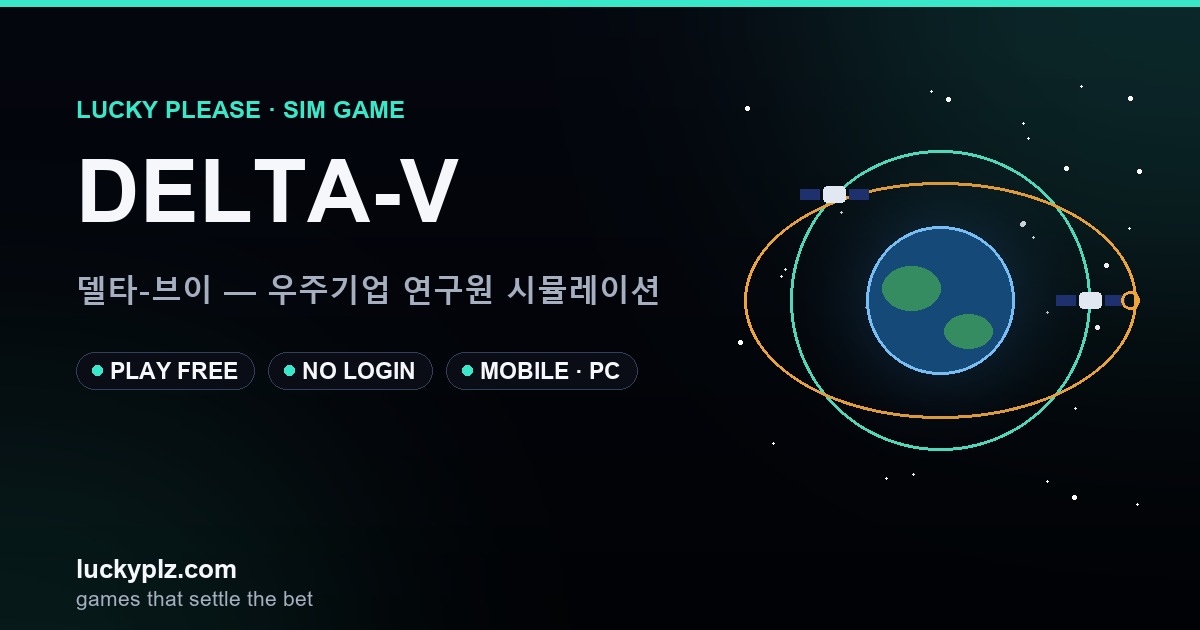
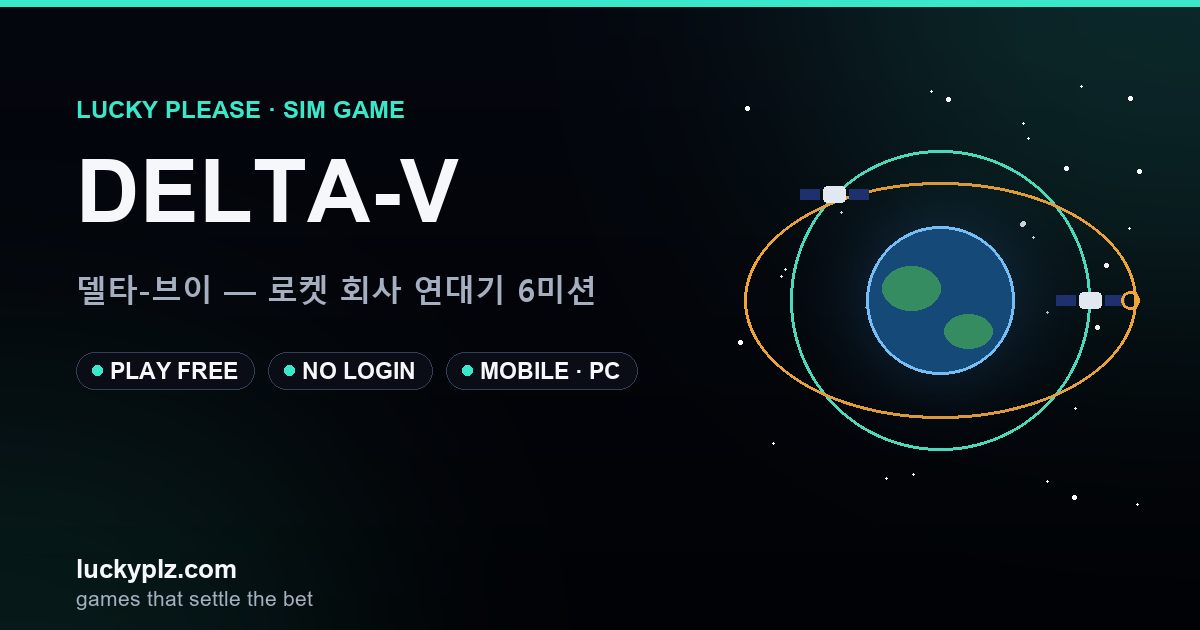
fix(orbit): 게임 목록·아케이드·OG 의 델타-브이 설명을 현재 게임(6미션 연대기)으로

Changed region(s): [[0.2158, 0.4222, 0.555, 0.4825]]

diff --git a/public/arcade/index.html b/public/arcade/index.html
@@ -224,7 +224,7 @@
   <div class="grid">
     <a class="tile" href="/games/lotto/" style="--tile-rgb:255,209,102"><span class="tile-sheen"></span><span class="ico"><img class="toy" src="/assets/tiles/toy-lotto.webp" alt="" width="560" height="560"></span><span class="nm" data-i18n="n_lotto">Lotto Draw</span><span class="ds" data-i18n="d_lotto">Lucky numbers</span></a>
     <a class="tile" href="/games/lucky-merge/" style="--tile-rgb:192,132,252"><span class="tile-sheen"></span><span class="ico"><img class="toy" src="/assets/tiles/toy-lucky-merge.webp" alt="" width="560" height="560"></span><span class="nm" data-i18n="n_merge">Planet Merge</span><span class="ds" data-i18n="d_merge">Meteor to black hole</span></a>
-    <a class="tile" href="/games/orbit/" style="--tile-rgb:56,232,200"><span class="tile-sheen"></span><span class="ico"><img class="toy" src="/assets/tiles/toy-orbit.webp" alt="" width="560" height="560"></span><span class="nm" data-i18n="n_orbit">Delta-V</span><span class="ds" data-i18n="d_orbit">Be the engineer</span></a>
+    <a class="tile" href="/games/orbit/" style="--tile-rgb:56,232,200"><span class="tile-sheen"></span><span class="ico"><img class="toy" src="/assets/tiles/toy-orbit.webp" alt="" width="560" height="560"></span><span class="nm" data-i18n="n_orbit">Delta-V</span><span class="ds" data-i18n="d_orbit">Fly 6 rocket missions</span></a>
     <a class="tile" href="/games/dodge/" style="--tile-rgb:34,211,238"><span class="tile-sheen"></span><span class="ico"><img class="toy" src="/assets/tiles/toy-dodge.webp" alt="" width="560" height="560"></span><span class="nm" data-i18n="n_dodge">Space-Z</span><span class="ds" data-i18n="d_dodge">Survive the belt</span></a>
     <a class="tile" href="/games/tetris/" style="--tile-rgb:96,165,250"><span class="tile-sheen"></span><span class="ico"><img class="toy" src="/assets/tiles/toy-tetris.webp" alt="" width="560" height="560"></span><span class="nm" data-i18n="n_block">Tetromino Stack</span><span class="ds" data-i18n="d_block">Stack, clear, repeat</span></a>
     <a class="tile" href="/games/starship-lander/" style="--tile-rgb:167,139,250"><span class="tile-sheen"></span><span class="ico"><img class="toy" src="/assets/tiles/toy-starship-lander.webp" alt="" width="560" height="560"></span><span class="nm" data-i18n="n_lander">Starship Lander</span><span class="ds" data-i18n="d_lander">Land it soft</span></a>
@@ -375,7 +375,7 @@ d.style.cssText='width:'+z+'px;height:'+z+'px;top:'+Math.random()*100+'%;left:'+
    보는 것은 영어여야 한다. 전환은 사용자 화면에서만 일어난다.
    SEO 투자 5개 언어만 두고 나머지 11개 UI 언어는 영어 원문으로 남는다. */
 (function () {
-    var T = {"ko": {"navHome": "← 럭키플리즈","navAll": "전체 게임","h1": "레트로 아케이드","lead": "열자마자 되는 작은 게임 13종. 줄 설 때, 엘리베이터 안, 회의 5분 전에.","n_lotto": "로또 추첨","d_lotto": "행운 번호 뽑기","n_merge": "행성 키우기","d_merge": "운석에서 블랙홀까지","n_orbit": "델타-브이","d_orbit": "우주기업 연구원이 된다","n_dodge": "스페이스-Z","d_dodge": "소행성대 생존","n_block": "테트로미노 쌓기","d_block": "쌓고 지우고 반복","n_lander": "스타십 착륙","d_lander": "부드럽게 착륙","n_brick": "벽돌깨기","d_brick": "벽돌 다 부수기","n_snake": "스네이크","d_snake": "먹을수록 길어지는 뱀","n_dot": "닷 러너","d_dot": "유령 따돌리기","n_burger": "버거 셰프","d_burger": "순서대로 쌓기","n_quiz": "라이브 퀴즈","d_quiz": "다 같이 퀴즈","n_bubble": "버블 버스트","d_bubble": "색 맞춰 터뜨리기","n_gummy": "구미 체인","d_gummy": "젤리 연쇄로 1:1 공격","back": "← 랜덤 뽑기로 돌아가기","f1t": "이 게임들이 살아남은 이유","f1b": "<p>여기 있는 게임은 전부 1976~1990년 기계의 후손입니다. 그 기계들은 메모리가 몇 킬로바이트뿐이었고 스스로를 설명할 방법이 없었습니다. 그래서 게임은 4초 안에 규칙 전부를 전달하지 못하면 아무것도 벌지 못했습니다. 살아남은 것은 <b>보자마자 목표가 보이고 난이도는 전부 손끝에서 나오는</b> 작은 목록입니다.</p><p>이 성질은 그때보다 지금 더 값이 나갑니다. 엘리베이터에서 연 게임에게 주어진 시간은 10초쯤입니다. 아케이드 기계도 같은 제약을 받았습니다. 뒤로가기 버튼 대신 동전 투입구가 있었을 뿐입니다.</p>","f2t": "각 게임의 진짜 원리","f2b": "<ul><li><b>스네이크</b> — 칸 수가 짝수인 격자에는 항상 해밀턴 순환이 있습니다. 모든 칸을 한 번씩 지나는 경로죠. 그대로 따라가면 절대 죽지 않고 느려지기만 합니다. 실력은 <b>그 순환에서 얼마나 안전하게 지름길을 잘라내는가</b>입니다.</li><li><b>테트로미노 쌓기</b> — 7-백 방식은 일곱 모양을 전부 내보낸 뒤에 다시 섞습니다. 필요한 조각을 12개 넘게 기다릴 일이 없다는 뜻이라, 운 관리가 계획으로 바뀝니다.</li><li><b>벽돌깨기</b> — 이 장르의 조상이고, 워즈니악이 원본 회로를 짠 게임입니다. 진짜 실력은 <b>패들의 어디에 맞았는지로 반사각을 읽는 것</b>입니다.</li><li><b>닷 러너</b> — 추격자 넷이 각각 다른 표적 규칙을 씁니다. 협력하는 코드가 한 줄도 없는데 협공처럼 보이는 이유입니다.</li><li><b>스타십 착륙</b> — 최적 강하는 수어사이드 번입니다. 최대한 자유낙하하다 마지막 순간에 최대 추력. 연료도 여유도 가장 적고, 그래서 가장 무섭습니다.</li><li><b>행성 키우기</b> — 사실 패킹 문제입니다. 합칠 때마다 자리는 나지만 보관할 것이 커지므로, 반대로 움직이는 두 값을 계속 협상하게 됩니다.</li></ul>","f3t": "이름과 콘텐츠 고지","f3b": "<p>닷 러너와 테트로미노 쌓기는 고전 아케이드 형식에서 착안한 자체 구현입니다. 비슷한 소재의 상용 게임 권리자와 아무 관련이 없고 승인도 받지 않았으며, 중립적인 이름을 쓴 것은 의도적입니다.</p>","f4t": "점수와 계정","f4b": "<p>모든 게임은 계정 없이 플레이됩니다. 로그인하면 두 가지가 더해집니다 — 최고 기록이 브라우저 하나가 아니라 기기 전체에 남고, 세계·친구 랭킹에 이름이 올라갑니다. 잠긴 것은 없습니다. 로그아웃 상태에서도 게임 전체를 하고 랭킹 전체를 볼 수 있습니다.</p>"},"ja": {"navHome": "← ラッキープリーズ","navAll": "すべてのゲーム","h1": "レトロアーケード","lead": "開いた瞬間から遊べる小さなゲーム13本。行列で、エレベーターで、会議前の5分に。","n_lotto": "ロト抽選","d_lotto": "ラッキーナンバー","n_merge": "惑星マージ","d_merge": "隕石からブラックホールへ","n_orbit": "デルタV","d_orbit": "宇宙企業の研究員になる","n_dodge": "スペース-Z","d_dodge": "小惑星帯を生き抜く","n_block": "テトロミノ・スタック","d_block": "積んで消してまた積む","n_lander": "スターシップ着陸","d_lander": "そっと着陸","n_brick": "ブロック崩し","d_brick": "全部壊す","n_snake": "スネーク","d_snake": "食べて伸びて噛まない","n_dot": "ドットランナー","d_dot": "ゴーストを振り切る","n_burger": "バーガーシェフ","d_burger": "順番どおりに積む","n_quiz": "ライブクイズ","d_quiz": "みんなでクイズ","n_bubble": "バブルバースト","d_bubble": "3つそろえてパチン","n_gummy": "グミチェイン","d_gummy": "グミ連鎖で1対1バトル","back": "← ランダム抽選ツールに戻る","f1t": "なぜこの形式だけが生き残ったか","f1b": "<p>ここにあるゲームはすべて1976〜1990年の機械の子孫です。当時のメモリは数キロバイト、しかも自分を説明する手段がありませんでした。だからゲームは4秒でルール全部を伝えられなければ、何も稼げなかったのです。生き残ったのは<b>見た瞬間に目的が分かり、難しさがすべて操作から来る</b>小さなライブラリでした。</p><p>この性質は当時より今のほうが価値があります。エレベーターで開いたゲームに与えられる時間は10秒ほど。アーケード筐体も同じ制約の中にいました。戻るボタンの代わりにコイン投入口があっただけです。</p>","f2t": "それぞれの中身","f2b": "<ul><li><b>スネーク</b> — マス数が偶数の格子には必ずハミルトン閉路があります。全マスを一度ずつ通る経路です。それをなぞれば絶対に死なず、ただ遅くなるだけ。腕の見せどころは<b>その閉路からどれだけ安全に近道を削るか</b>です。</li><li><b>テトロミノ・スタック</b> — 7バッグ方式は7種類を出し切ってから引き直します。欲しいピースを12個以上待つことがないので、運の管理が計画に変わります。</li><li><b>ブロック崩し</b> — このジャンルの祖先で、ウォズニアックが原型の回路を組んだ作品。本当の技術は<b>パドルのどこに当たったかで反射角を読むこと</b>です。</li><li><b>ドットランナー</b> — 4体の追跡者はそれぞれ違う狙い方をします。連携するコードが一行もないのに挟み撃ちに見えるのはそのためです。</li><li><b>スターシップ着陸</b> — 最適な降下はスーサイドバーン。ぎりぎりまで自由落下し、最後の瞬間に全推力。燃料も余裕も最小で、だからいちばん怖い。</li><li><b>惑星マージ</b> — 実は詰め込み問題です。合体するたび場所は空きますが、保管するものは大きくなる。逆向きに動く二つの量をずっと交渉することになります。</li></ul>","f3t": "名称と内容についてのお知らせ","f3b": "<p>ドットランナーとテトロミノ・スタックは、古典的なアーケード形式に着想を得た独自実装です。似た題材の商用ゲームの権利者とは無関係で、承認も受けていません。中立的な名称は意図的なものです。</p>","f4t": "スコアとアカウント","f4b": "<p>すべてのゲームはアカウントなしで遊べます。ログインで増えるのは二つ — ベスト記録がブラウザ1つではなく端末をまたいで残ること、そして世界・フレンドのランキングに名前が載ることです。制限はありません。ログアウトのままでもゲーム全体を遊び、ランキング全体を見られます。</p>"},"es": {"navHome": "← LUCKY PLEASE","navAll": "TODOS LOS JUEGOS","h1": "Arcade Retro","lead": "Trece juegos pequeños que se abren al instante y no te piden nada. Para la cola, el ascensor, los cinco minutos antes de una reunión.","n_lotto": "Lotería","d_lotto": "Números de la suerte","n_merge": "Planet Merge","d_merge": "De meteorito a agujero negro","n_orbit": "Delta-V","d_orbit": "Sé el ingeniero","n_dodge": "Space-Z","d_dodge": "Sobrevive al cinturón","n_block": "Tetrominós","d_block": "Apila, limpia, repite","n_lander": "Starship Lander","d_lander": "Aterriza suave","n_brick": "Rompe Ladrillos","d_brick": "Rómpelos todos","n_snake": "Snake","d_snake": "Come, crece, no te muerdas","n_dot": "Dot Runner","d_dot": "Escapa de los fantasmas","n_burger": "Chef Burger","d_burger": "Apila en orden","n_quiz": "Quiz en Vivo","d_quiz": "Trivia en grupo","n_bubble": "Revienta Burbujas","d_bubble": "Junta 3 y revienta","n_gummy": "Gummy Chain","d_gummy": "Encadena gominolas y ataca","back": "← Volver a los sorteos aleatorios","f1t": "Por qué estos juegos sobrevivieron a todo lo demás","f1b": "<p>Todos los de aquí descienden de una máquina construida entre 1976 y 1990. Aquellas tenían unos pocos kilobytes de memoria y ninguna forma de explicarse, así que un juego o transmitía sus reglas enteras en cuatro segundos o no ganaba nada. Lo que sobrevivió es una biblioteca pequeña donde <b>el objetivo se ve de un vistazo y la dificultad está toda en la ejecución</b>.</p><p>Esa propiedad vale más ahora que entonces. Un juego abierto en un ascensor tiene unos diez segundos para justificarse. La máquina recreativa tenía la misma restricción, solo que con una ranura de monedas en lugar de un botón de volver.</p>","f2t": "En qué se basa cada uno","f2b": "<ul><li><b>Snake</b> — una cuadrícula con un número par de celdas siempre contiene un ciclo hamiltoniano: un camino que visita cada casilla una vez. Si lo sigues nunca mueres, solo te vuelves más lento. La habilidad está en <b>recortar atajos sin quedar atrapado</b>.</li><li><b>Tetromino Stack</b> — el generador de siete bolsas reparte las siete formas antes de volver a barajar, así que nunca esperas más de doce piezas por la que necesitas. La gestión de la suerte se convierte en planificación.</li><li><b>Rompe Ladrillos</b> — el ancestro del género, y el juego para el que Wozniak montó el circuito original. La habilidad real es <b>leer el ángulo de salida</b>, que depende de dónde golpea la bola la paleta.</li><li><b>Dot Runner</b> — los cuatro perseguidores usan reglas de objetivo distintas. Por eso parecen coordinarse sin que exista una sola línea de código que los coordine.</li><li><b>Starship Lander</b> — el descenso óptimo es la quemadura suicida: caer todo lo posible y aplicar empuje máximo en el último instante. Menos combustible, menos margen, más terror.</li><li><b>Planet Merge</b> — un problema de empaquetado. Cada fusión libera espacio pero agranda lo que guardas, así que negocias dos cantidades que van en direcciones opuestas.</li></ul>","f3t": "Nombres y avisos de contenido","f3b": "<p>Dot Runner y Tetromino Stack son implementaciones propias inspiradas en formatos clásicos de recreativa. No están afiliadas ni respaldadas por los titulares de derechos de ningún juego comercial de temática similar, y los nombres neutros son deliberados.</p>","f4t": "Puntuaciones y cuentas","f4b": "<p>Todos los juegos funcionan sin cuenta. Iniciar sesión añade dos cosas: tus mejores marcas persisten entre dispositivos en lugar de en un solo navegador, y apareces en las tablas mundial y de amigos. Nada está bloqueado: el juego completo se juega y la clasificación completa se lee sin sesión.</p>"},"pt": {"navHome": "← LUCKY PLEASE","navAll": "TODOS OS JOGOS","h1": "Arcade Retrô","lead": "Treze joguinhos que abrem na hora e não pedem nada. Para a fila, o elevador, os cinco minutos antes da reunião.","n_lotto": "Loteria","d_lotto": "Números da sorte","n_merge": "Planet Merge","d_merge": "De meteorito a buraco negro","n_orbit": "Delta-V","d_orbit": "Seja o engenheiro","n_dodge": "Space-Z","d_dodge": "Sobreviva ao cinturão","n_block": "Tetraminós","d_block": "Empilhe, limpe, repita","n_lander": "Starship Lander","d_lander": "Pouse suave","n_brick": "Quebra-Tijolos","d_brick": "Quebre todos","n_snake": "Snake","d_snake": "Coma, cresça, não se morda","n_dot": "Dot Runner","d_dot": "Fuja dos fantasmas","n_burger": "Chef Burger","d_burger": "Empilhe na ordem","n_quiz": "Quiz ao Vivo","d_quiz": "Quiz em grupo","n_bubble": "Estoura Bolhas","d_bubble": "Junte 3 e estoure","n_gummy": "Gummy Chain","d_gummy": "Encadeie balas e ataque","back": "← Voltar aos sorteios aleatórios","f1t": "Por que estes jogos sobreviveram a tudo","f1b": "<p>Todos aqui descendem de uma máquina construída entre 1976 e 1990. Aquelas tinham poucos kilobytes de memória e nenhuma forma de se explicar, então um jogo ou transmitia todas as regras em quatro segundos ou não ganhava nada. O que sobreviveu é uma biblioteca pequena em que <b>o objetivo se vê de imediato e a dificuldade está toda na execução</b>.</p><p>Essa propriedade vale mais hoje do que valia então. Um jogo aberto no elevador tem uns dez segundos para se justificar. A máquina de fliperama tinha a mesma restrição, só que com uma moedeira no lugar do botão de voltar.</p>","f2t": "No que cada um se baseia","f2b": "<ul><li><b>Snake</b> — uma grade com número par de células sempre contém um ciclo hamiltoniano: um caminho que passa por cada casa uma vez. Se você o segue, nunca morre, apenas fica mais lento. A habilidade está em <b>cortar atalhos sem se prender</b>.</li><li><b>Tetromino Stack</b> — o sorteio de sete sacos distribui as sete formas antes de embaralhar de novo, então você nunca espera mais de doze peças pela que precisa. Gerenciar sorte vira planejamento.</li><li><b>Quebra-Tijolos</b> — o ancestral do gênero, e o jogo para o qual Wozniak montou o circuito original. A habilidade real é <b>ler o ângulo de saída</b>, que depende de onde a bola bate na raquete.</li><li><b>Dot Runner</b> — os quatro perseguidores usam regras de mira diferentes. É por isso que parecem se coordenar sem nenhuma linha de código que os coordene.</li><li><b>Starship Lander</b> — a descida ótima é a queima suicida: cair o máximo possível e dar empuxo total no último instante. Menos combustível, menos margem, mais pavor.</li><li><b>Planet Merge</b> — um problema de empacotamento. Cada fusão libera espaço mas aumenta o que você guarda, então você negocia duas quantidades que andam em direções opostas.</li></ul>","f3t": "Nomes e avisos de conteúdo","f3b": "<p>Dot Runner e Tetromino Stack são implementações próprias inspiradas em formatos clássicos de fliperama. Não têm vínculo nem aval dos detentores de direitos de qualquer jogo comercial de tema parecido, e os nomes neutros são propositais.</p>","f4t": "Pontuações e contas","f4b": "<p>Todos os jogos rodam sem conta. Entrar acrescenta duas coisas: seus melhores resultados ficam salvos entre dispositivos em vez de num navegador só, e você aparece nos rankings mundial e de amigos. Nada é bloqueado — dá para jogar tudo e ler o ranking inteiro sem estar logado.</p>"}};
+    var T = {"ko": {"navHome": "← 럭키플리즈","navAll": "전체 게임","h1": "레트로 아케이드","lead": "열자마자 되는 작은 게임 13종. 줄 설 때, 엘리베이터 안, 회의 5분 전에.","n_lotto": "로또 추첨","d_lotto": "행운 번호 뽑기","n_merge": "행성 키우기","d_merge": "운석에서 블랙홀까지","n_orbit": "델타-브이","d_orbit": "로켓 미션 6개 직접 조종","n_dodge": "스페이스-Z","d_dodge": "소행성대 생존","n_block": "테트로미노 쌓기","d_block": "쌓고 지우고 반복","n_lander": "스타십 착륙","d_lander": "부드럽게 착륙","n_brick": "벽돌깨기","d_brick": "벽돌 다 부수기","n_snake": "스네이크","d_snake": "먹을수록 길어지는 뱀","n_dot": "닷 러너","d_dot": "유령 따돌리기","n_burger": "버거 셰프","d_burger": "순서대로 쌓기","n_quiz": "라이브 퀴즈","d_quiz": "다 같이 퀴즈","n_bubble": "버블 버스트","d_bubble": "색 맞춰 터뜨리기","n_gummy": "구미 체인","d_gummy": "젤리 연쇄로 1:1 공격","back": "← 랜덤 뽑기로 돌아가기","f1t": "이 게임들이 살아남은 이유","f1b": "<p>여기 있는 게임은 전부 1976~1990년 기계의 후손입니다. 그 기계들은 메모리가 몇 킬로바이트뿐이었고 스스로를 설명할 방법이 없었습니다. 그래서 게임은 4초 안에 규칙 전부를 전달하지 못하면 아무것도 벌지 못했습니다. 살아남은 것은 <b>보자마자 목표가 보이고 난이도는 전부 손끝에서 나오는</b> 작은 목록입니다.</p><p>이 성질은 그때보다 지금 더 값이 나갑니다. 엘리베이터에서 연 게임에게 주어진 시간은 10초쯤입니다. 아케이드 기계도 같은 제약을 받았습니다. 뒤로가기 버튼 대신 동전 투입구가 있었을 뿐입니다.</p>","f2t": "각 게임의 진짜 원리","f2b": "<ul><li><b>스네이크</b> — 칸 수가 짝수인 격자에는 항상 해밀턴 순환이 있습니다. 모든 칸을 한 번씩 지나는 경로죠. 그대로 따라가면 절대 죽지 않고 느려지기만 합니다. 실력은 <b>그 순환에서 얼마나 안전하게 지름길을 잘라내는가</b>입니다.</li><li><b>테트로미노 쌓기</b> — 7-백 방식은 일곱 모양을 전부 내보낸 뒤에 다시 섞습니다. 필요한 조각을 12개 넘게 기다릴 일이 없다는 뜻이라, 운 관리가 계획으로 바뀝니다.</li><li><b>벽돌깨기</b> — 이 장르의 조상이고, 워즈니악이 원본 회로를 짠 게임입니다. 진짜 실력은 <b>패들의 어디에 맞았는지로 반사각을 읽는 것</b>입니다.</li><li><b>닷 러너</b> — 추격자 넷이 각각 다른 표적 규칙을 씁니다. 협력하는 코드가 한 줄도 없는데 협공처럼 보이는 이유입니다.</li><li><b>스타십 착륙</b> — 최적 강하는 수어사이드 번입니다. 최대한 자유낙하하다 마지막 순간에 최대 추력. 연료도 여유도 가장 적고, 그래서 가장 무섭습니다.</li><li><b>행성 키우기</b> — 사실 패킹 문제입니다. 합칠 때마다 자리는 나지만 보관할 것이 커지므로, 반대로 움직이는 두 값을 계속 협상하게 됩니다.</li></ul>","f3t": "이름과 콘텐츠 고지","f3b": "<p>닷 러너와 테트로미노 쌓기는 고전 아케이드 형식에서 착안한 자체 구현입니다. 비슷한 소재의 상용 게임 권리자와 아무 관련이 없고 승인도 받지 않았으며, 중립적인 이름을 쓴 것은 의도적입니다.</p>","f4t": "점수와 계정","f4b": "<p>모든 게임은 계정 없이 플레이됩니다. 로그인하면 두 가지가 더해집니다 — 최고 기록이 브라우저 하나가 아니라 기기 전체에 남고, 세계·친구 랭킹에 이름이 올라갑니다. 잠긴 것은 없습니다. 로그아웃 상태에서도 게임 전체를 하고 랭킹 전체를 볼 수 있습니다.</p>"},"ja": {"navHome": "← ラッキープリーズ","navAll": "すべてのゲーム","h1": "レトロアーケード","lead": "開いた瞬間から遊べる小さなゲーム13本。行列で、エレベーターで、会議前の5分に。","n_lotto": "ロト抽選","d_lotto": "ラッキーナンバー","n_merge": "惑星マージ","d_merge": "隕石からブラックホールへ","n_orbit": "デルタV","d_orbit": "ロケットを自分で操縦","n_dodge": "スペース-Z","d_dodge": "小惑星帯を生き抜く","n_block": "テトロミノ・スタック","d_block": "積んで消してまた積む","n_lander": "スターシップ着陸","d_lander": "そっと着陸","n_brick": "ブロック崩し","d_brick": "全部壊す","n_snake": "スネーク","d_snake": "食べて伸びて噛まない","n_dot": "ドットランナー","d_dot": "ゴーストを振り切る","n_burger": "バーガーシェフ","d_burger": "順番どおりに積む","n_quiz": "ライブクイズ","d_quiz": "みんなでクイズ","n_bubble": "バブルバースト","d_bubble": "3つそろえてパチン","n_gummy": "グミチェイン","d_gummy": "グミ連鎖で1対1バトル","back": "← ランダム抽選ツールに戻る","f1t": "なぜこの形式だけが生き残ったか","f1b": "<p>ここにあるゲームはすべて1976〜1990年の機械の子孫です。当時のメモリは数キロバイト、しかも自分を説明する手段がありませんでした。だからゲームは4秒でルール全部を伝えられなければ、何も稼げなかったのです。生き残ったのは<b>見た瞬間に目的が分かり、難しさがすべて操作から来る</b>小さなライブラリでした。</p><p>この性質は当時より今のほうが価値があります。エレベーターで開いたゲームに与えられる時間は10秒ほど。アーケード筐体も同じ制約の中にいました。戻るボタンの代わりにコイン投入口があっただけです。</p>","f2t": "それぞれの中身","f2b": "<ul><li><b>スネーク</b> — マス数が偶数の格子には必ずハミルトン閉路があります。全マスを一度ずつ通る経路です。それをなぞれば絶対に死なず、ただ遅くなるだけ。腕の見せどころは<b>その閉路からどれだけ安全に近道を削るか</b>です。</li><li><b>テトロミノ・スタック</b> — 7バッグ方式は7種類を出し切ってから引き直します。欲しいピースを12個以上待つことがないので、運の管理が計画に変わります。</li><li><b>ブロック崩し</b> — このジャンルの祖先で、ウォズニアックが原型の回路を組んだ作品。本当の技術は<b>パドルのどこに当たったかで反射角を読むこと</b>です。</li><li><b>ドットランナー</b> — 4体の追跡者はそれぞれ違う狙い方をします。連携するコードが一行もないのに挟み撃ちに見えるのはそのためです。</li><li><b>スターシップ着陸</b> — 最適な降下はスーサイドバーン。ぎりぎりまで自由落下し、最後の瞬間に全推力。燃料も余裕も最小で、だからいちばん怖い。</li><li><b>惑星マージ</b> — 実は詰め込み問題です。合体するたび場所は空きますが、保管するものは大きくなる。逆向きに動く二つの量をずっと交渉することになります。</li></ul>","f3t": "名称と内容についてのお知らせ","f3b": "<p>ドットランナーとテトロミノ・スタックは、古典的なアーケード形式に着想を得た独自実装です。似た題材の商用ゲームの権利者とは無関係で、承認も受けていません。中立的な名称は意図的なものです。</p>","f4t": "スコアとアカウント","f4b": "<p>すべてのゲームはアカウントなしで遊べます。ログインで増えるのは二つ — ベスト記録がブラウザ1つではなく端末をまたいで残ること、そして世界・フレンドのランキングに名前が載ることです。制限はありません。ログアウトのままでもゲーム全体を遊び、ランキング全体を見られます。</p>"},"es": {"navHome": "← LUCKY PLEASE","navAll": "TODOS LOS JUEGOS","h1": "Arcade Retro","lead": "Trece juegos pequeños que se abren al instante y no te piden nada. Para la cola, el ascensor, los cinco minutos antes de una reunión.","n_lotto": "Lotería","d_lotto": "Números de la suerte","n_merge": "Planet Merge","d_merge": "De meteorito a agujero negro","n_orbit": "Delta-V","d_orbit": "Pilota 6 misiones de cohete","n_dodge": "Space-Z","d_dodge": "Sobrevive al cinturón","n_block": "Tetrominós","d_block": "Apila, limpia, repite","n_lander": "Starship Lander","d_lander": "Aterriza suave","n_brick": "Rompe Ladrillos","d_brick": "Rómpelos todos","n_snake": "Snake","d_snake": "Come, crece, no te muerdas","n_dot": "Dot Runner","d_dot": "Escapa de los fantasmas","n_burger": "Chef Burger","d_burger": "Apila en orden","n_quiz": "Quiz en Vivo","d_quiz": "Trivia en grupo","n_bubble": "Revienta Burbujas","d_bubble": "Junta 3 y revienta","n_gummy": "Gummy Chain","d_gummy": "Encadena gominolas y ataca","back": "← Volver a los sorteos aleatorios","f1t": "Por qué estos juegos sobrevivieron a todo lo demás","f1b": "<p>Todos los de aquí descienden de una máquina construida entre 1976 y 1990. Aquellas tenían unos pocos kilobytes de memoria y ninguna forma de explicarse, así que un juego o transmitía sus reglas enteras en cuatro segundos o no ganaba nada. Lo que sobrevivió es una biblioteca pequeña donde <b>el objetivo se ve de un vistazo y la dificultad está toda en la ejecución</b>.</p><p>Esa propiedad vale más ahora que entonces. Un juego abierto en un ascensor tiene unos diez segundos para justificarse. La máquina recreativa tenía la misma restricción, solo que con una ranura de monedas en lugar de un botón de volver.</p>","f2t": "En qué se basa cada uno","f2b": "<ul><li><b>Snake</b> — una cuadrícula con un número par de celdas siempre contiene un ciclo hamiltoniano: un camino que visita cada casilla una vez. Si lo sigues nunca mueres, solo te vuelves más lento. La habilidad está en <b>recortar atajos sin quedar atrapado</b>.</li><li><b>Tetromino Stack</b> — el generador de siete bolsas reparte las siete formas antes de volver a barajar, así que nunca esperas más de doce piezas por la que necesitas. La gestión de la suerte se convierte en planificación.</li><li><b>Rompe Ladrillos</b> — el ancestro del género, y el juego para el que Wozniak montó el circuito original. La habilidad real es <b>leer el ángulo de salida</b>, que depende de dónde golpea la bola la paleta.</li><li><b>Dot Runner</b> — los cuatro perseguidores usan reglas de objetivo distintas. Por eso parecen coordinarse sin que exista una sola línea de código que los coordine.</li><li><b>Starship Lander</b> — el descenso óptimo es la quemadura suicida: caer todo lo posible y aplicar empuje máximo en el último instante. Menos combustible, menos margen, más terror.</li><li><b>Planet Merge</b> — un problema de empaquetado. Cada fusión libera espacio pero agranda lo que guardas, así que negocias dos cantidades que van en direcciones opuestas.</li></ul>","f3t": "Nombres y avisos de contenido","f3b": "<p>Dot Runner y Tetromino Stack son implementaciones propias inspiradas en formatos clásicos de recreativa. No están afiliadas ni respaldadas por los titulares de derechos de ningún juego comercial de temática similar, y los nombres neutros son deliberados.</p>","f4t": "Puntuaciones y cuentas","f4b": "<p>Todos los juegos funcionan sin cuenta. Iniciar sesión añade dos cosas: tus mejores marcas persisten entre dispositivos en lugar de en un solo navegador, y apareces en las tablas mundial y de amigos. Nada está bloqueado: el juego completo se juega y la clasificación completa se lee sin sesión.</p>"},"pt": {"navHome": "← LUCKY PLEASE","navAll": "TODOS OS JOGOS","h1": "Arcade Retrô","lead": "Treze joguinhos que abrem na hora e não pedem nada. Para a fila, o elevador, os cinco minutos antes da reunião.","n_lotto": "Loteria","d_lotto": "Números da sorte","n_merge": "Planet Merge","d_merge": "De meteorito a buraco negro","n_orbit": "Delta-V","d_orbit": "Pilote 6 missões de foguete","n_dodge": "Space-Z","d_dodge": "Sobreviva ao cinturão","n_block": "Tetraminós","d_block": "Empilhe, limpe, repita","n_lander": "Starship Lander","d_lander": "Pouse suave","n_brick": "Quebra-Tijolos","d_brick": "Quebre todos","n_snake": "Snake","d_snake": "Coma, cresça, não se morda","n_dot": "Dot Runner","d_dot": "Fuja dos fantasmas","n_burger": "Chef Burger","d_burger": "Empilhe na ordem","n_quiz": "Quiz ao Vivo","d_quiz": "Quiz em grupo","n_bubble": "Estoura Bolhas","d_bubble": "Junte 3 e estoure","n_gummy": "Gummy Chain","d_gummy": "Encadeie balas e ataque","back": "← Voltar aos sorteios aleatórios","f1t": "Por que estes jogos sobreviveram a tudo","f1b": "<p>Todos aqui descendem de uma máquina construída entre 1976 e 1990. Aquelas tinham poucos kilobytes de memória e nenhuma forma de se explicar, então um jogo ou transmitia todas as regras em quatro segundos ou não ganhava nada. O que sobreviveu é uma biblioteca pequena em que <b>o objetivo se vê de imediato e a dificuldade está toda na execução</b>.</p><p>Essa propriedade vale mais hoje do que valia então. Um jogo aberto no elevador tem uns dez segundos para se justificar. A máquina de fliperama tinha a mesma restrição, só que com uma moedeira no lugar do botão de voltar.</p>","f2t": "No que cada um se baseia","f2b": "<ul><li><b>Snake</b> — uma grade com número par de células sempre contém um ciclo hamiltoniano: um caminho que passa por cada casa uma vez. Se você o segue, nunca morre, apenas fica mais lento. A habilidade está em <b>cortar atalhos sem se prender</b>.</li><li><b>Tetromino Stack</b> — o sorteio de sete sacos distribui as sete formas antes de embaralhar de novo, então você nunca espera mais de doze peças pela que precisa. Gerenciar sorte vira planejamento.</li><li><b>Quebra-Tijolos</b> — o ancestral do gênero, e o jogo para o qual Wozniak montou o circuito original. A habilidade real é <b>ler o ângulo de saída</b>, que depende de onde a bola bate na raquete.</li><li><b>Dot Runner</b> — os quatro perseguidores usam regras de mira diferentes. É por isso que parecem se coordenar sem nenhuma linha de código que os coordene.</li><li><b>Starship Lander</b> — a descida ótima é a queima suicida: cair o máximo possível e dar empuxo total no último instante. Menos combustível, menos margem, mais pavor.</li><li><b>Planet Merge</b> — um problema de empacotamento. Cada fusão libera espaço mas aumenta o que você guarda, então você negocia duas quantidades que andam em direções opostas.</li></ul>","f3t": "Nomes e avisos de conteúdo","f3b": "<p>Dot Runner e Tetromino Stack são implementações próprias inspiradas em formatos clássicos de fliperama. Não têm vínculo nem aval dos detentores de direitos de qualquer jogo comercial de tema parecido, e os nomes neutros são propositais.</p>","f4t": "Pontuações e contas","f4b": "<p>Todos os jogos rodam sem conta. Entrar acrescenta duas coisas: seus melhores resultados ficam salvos entre dispositivos em vez de num navegador só, e você aparece nos rankings mundial e de amigos. Nada é bloqueado — dá para jogar tudo e ler o ranking inteiro sem estar logado.</p>"}};
     function pick() {
         var l;
         try { l = localStorage.getItem('luckyplz_lang') || 'en'; } catch (e) { l = 'en'; }

diff --git a/public/games/index.html b/public/games/index.html
@@ -157,9 +157,9 @@ p{font-size:.96em;line-height:1.8;color:rgba(255,255,255,.72);margin-bottom:14px
   </a>
   <a class="card" href="/games/orbit/">
     <div class="badge">NEW</div>
-    <div class="ic">🛠</div>
+    <div class="ic">🚀</div>
     <div class="nm">델타-브이</div>
-    <div class="ds">우주기업 연구원이 되어 메일 지시를 받고 공학으로 푸는 스토리 시뮬레이션. PC 전용.</div>
+    <div class="ds">엔진 점화부터 발사탑 포획까지, 로켓 회사 연대기 6미션을 직접 조종. 폰·PC 모두.</div>
   </a>
   <a class="card" href="/games/dodge/">
     <div class="badge">HOT</div>

diff --git a/scripts/gen-og-games.py b/scripts/gen-og-games.py
@@ -740,7 +740,7 @@ GAMES = {
     "dodge":           dict(title="SPACE-Z", sub="스페이스-Z — 레서판다 럭키와 우주 끝까지", cat="ARCADE", top=(6, 10, 24), bot=(3, 4, 10), accent=(0, 217, 255), motif=m_dodge),
     "starship-lander": dict(title="STARSHIP LANDER", sub="우주선 착륙 — 추력 조절의 미학", cat="RETRO", top=(8, 12, 24), bot=(3, 5, 10), accent=(255, 160, 60), motif=m_lander),
     "lucky-merge":     dict(title="LUCKY MERGE", sub="행성 합체 — 우주 2048 퍼즐", cat="PUZZLE", top=(14, 10, 28), bot=(6, 4, 12), accent=(167, 139, 250), motif=m_merge),
-    "orbit":           dict(title="DELTA-V", sub="델타-브이 — 우주기업 연구원 시뮬레이션", cat="SIM", top=(4, 6, 14), bot=(1, 2, 5), accent=(56, 232, 200), motif=m_orbit),
+    "orbit":           dict(title="DELTA-V", sub="델타-브이 — 로켓 회사 연대기 6미션", cat="SIM", top=(4, 6, 14), bot=(1, 2, 5), accent=(56, 232, 200), motif=m_orbit),
     "bingo":           dict(title="BINGO", sub="빙고 — 친구와 실시간 한 판", cat="PARTY", top=(24, 10, 18), bot=(10, 4, 8), accent=(255, 99, 132), motif=m_bingo),
     "quiz":            dict(title="LIVE QUIZ", sub="라이브 퀴즈 — 같이 풀고 겨루기", cat="PARTY", top=(14, 10, 30), bot=(6, 4, 13), accent=(167, 139, 250), motif=m_quiz),
 }
